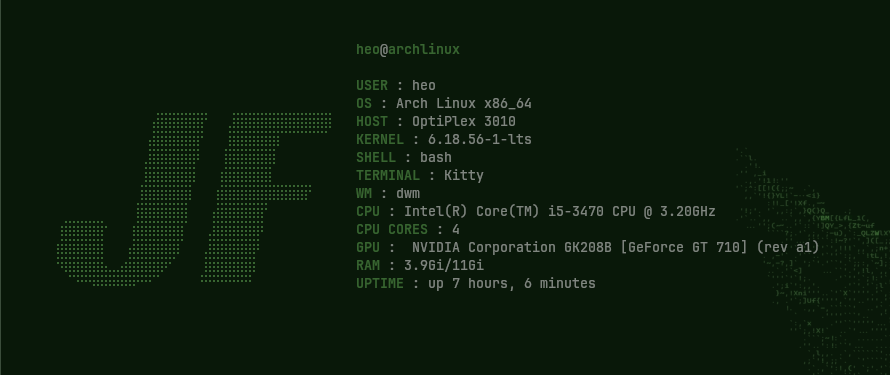
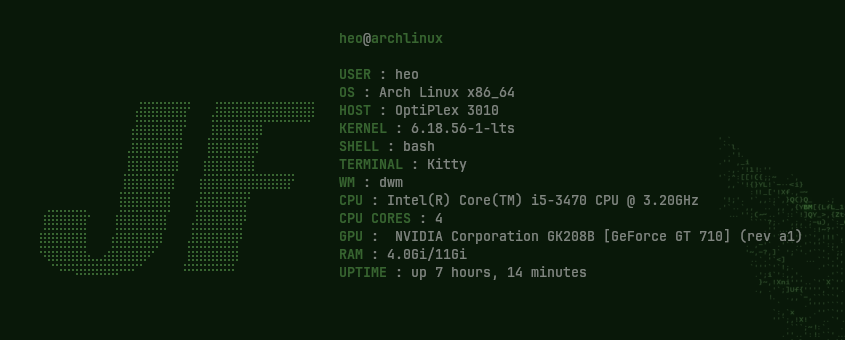
Updated screenshot

diff --git a/README.md b/README.md
@@ -4,7 +4,7 @@
 
 <p align=center>A lightweight Bash-based system information tool for Linux, built as my first shell scripting project.
 
-<p align=center><img width="807" height="294" alt="JustFetch" src="assets/JustFetchScreenShot.png"> </p>
+<p align=center><img width="845" height="340" alt="JustFetch" src="assets/JustFetchScreenShot.png"> </p>
 
 <p align=center>JustFetch displays useful information about your system directly in the terminal, with custom colours and a few fun command-line options.
 
